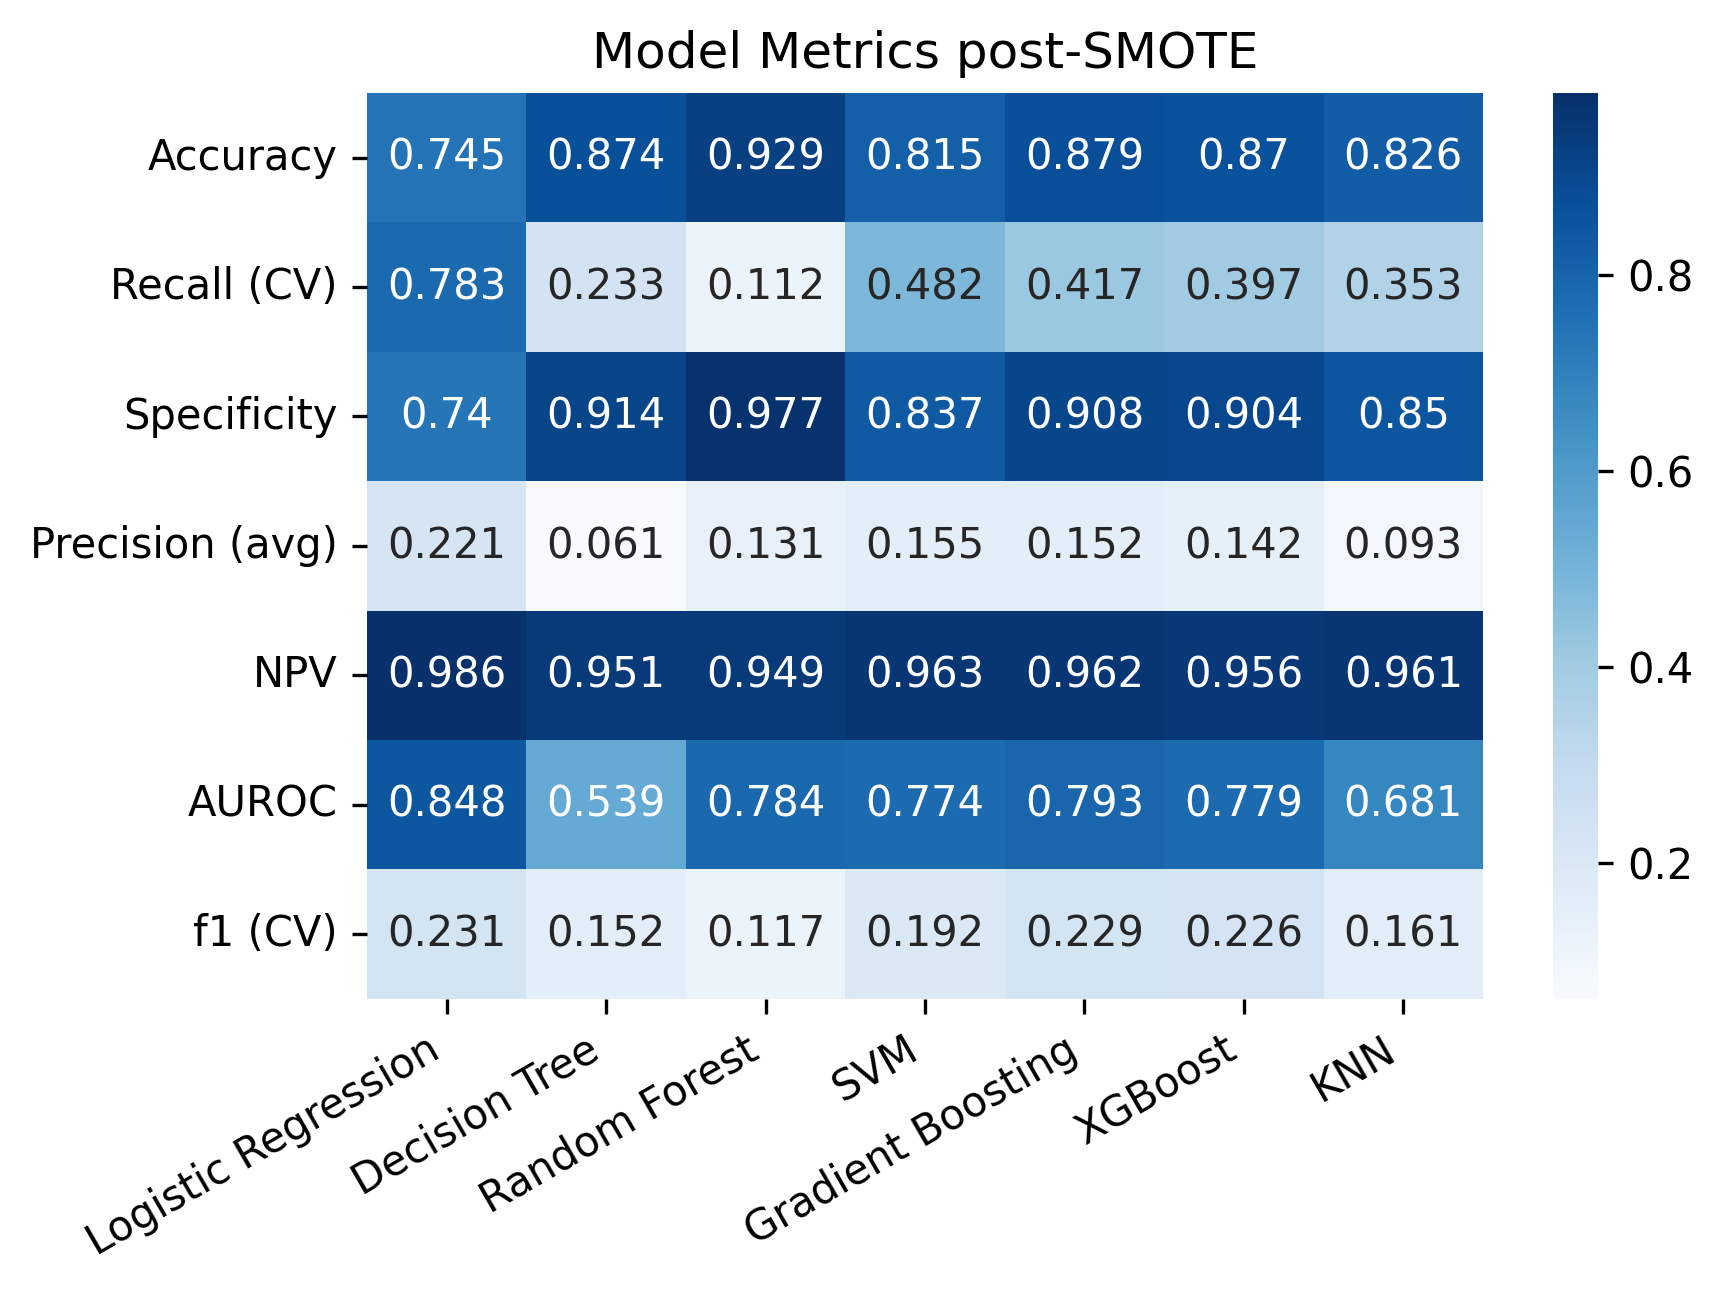
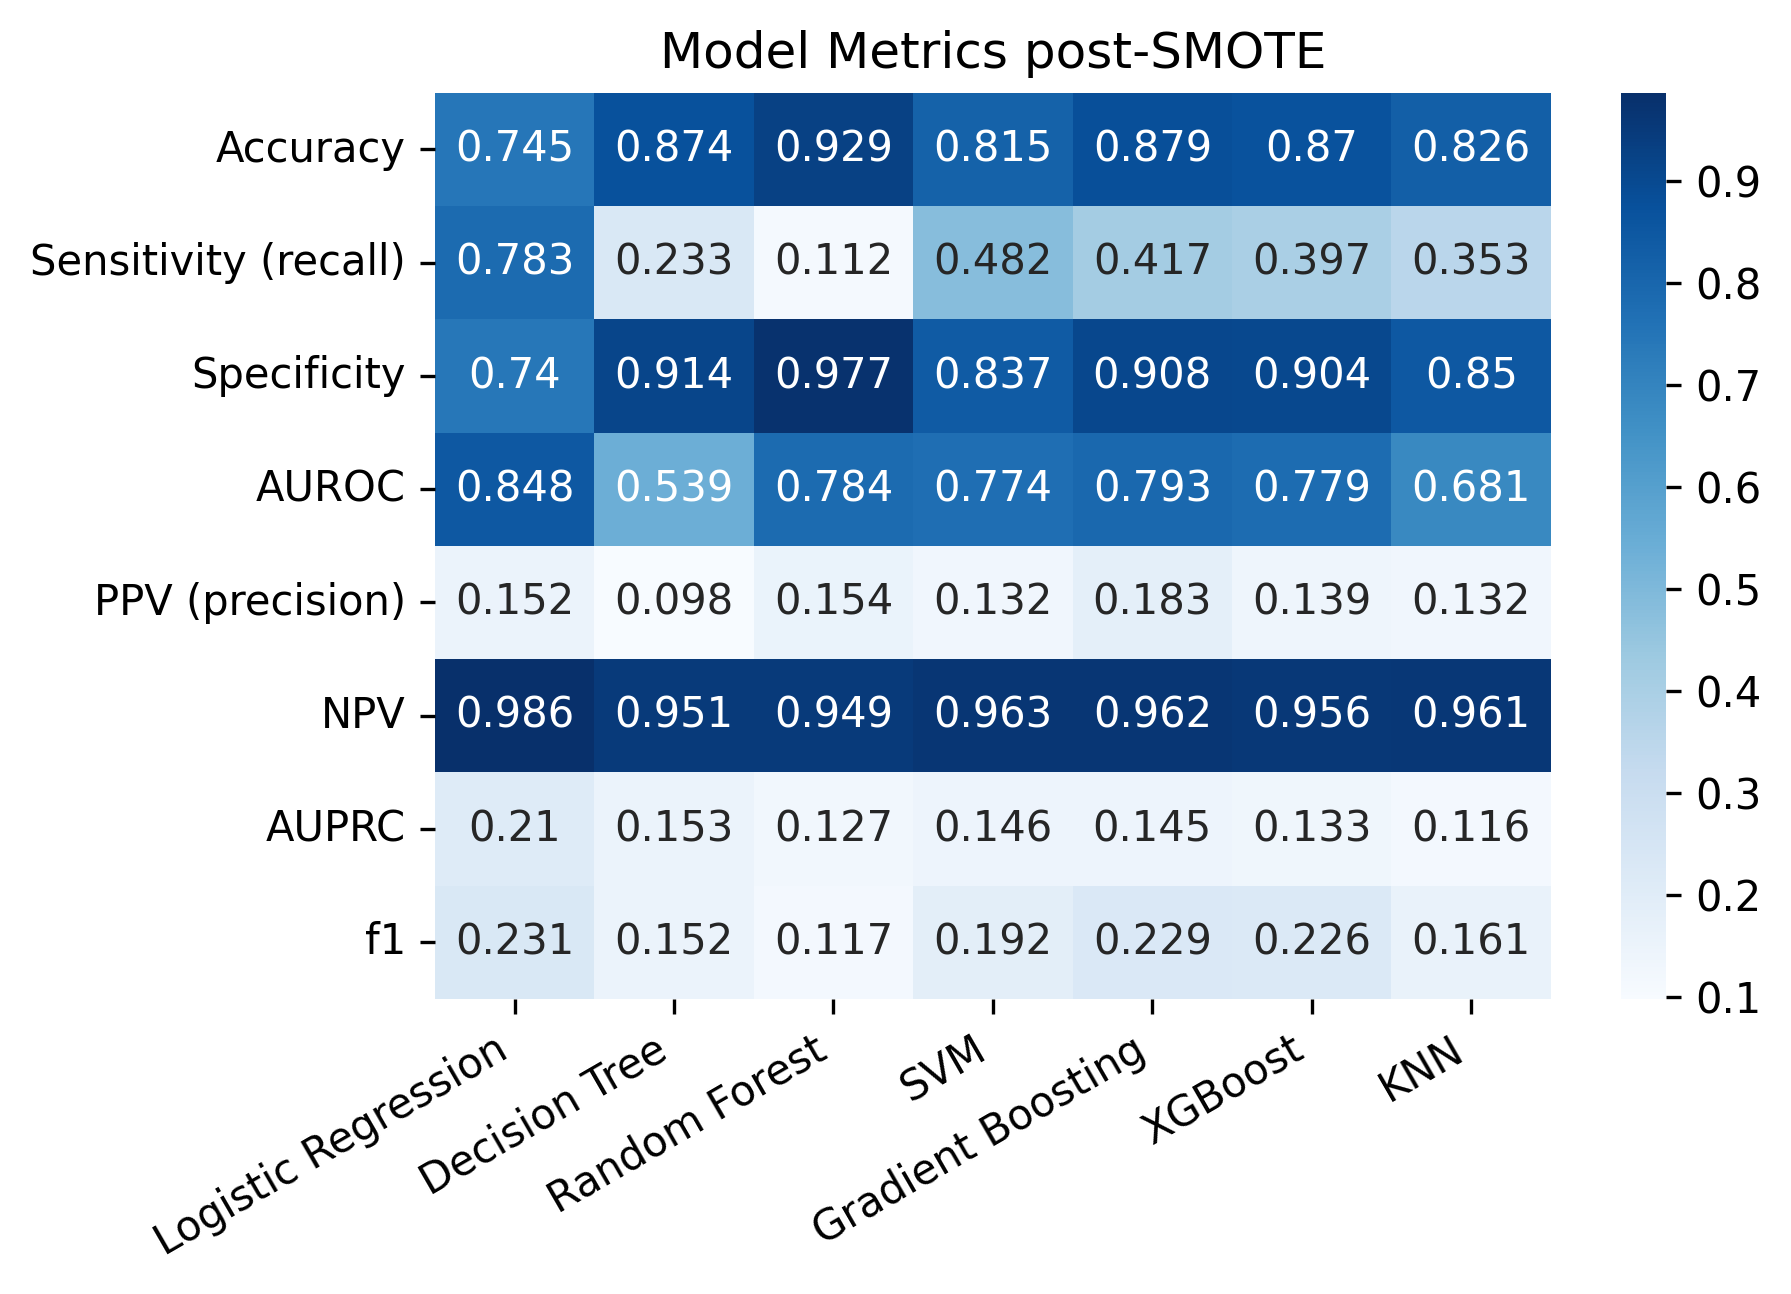
updating gridsearch functions

diff --git a/stroke_modeling.py b/stroke_modeling.py
@@ -557,8 +557,8 @@ lr_final_results = lr_final_results.apply(pd.to_numeric)
 sns.heatmap(data=lr_final_results.T, annot=True, cmap="Blues", fmt=".3")
 plt.yticks(rotation=0)  # Rotate y-tick labels to be horizontal
 plt.title('Comparison of Three Logistic Regression Models')
-save_filename = 'lr_all_metrics'
-save_image(output_dir, save_filename, bbox_inches='tight')
+#save_filename = 'lr_all_metrics'
+#save_image(output_dir, save_filename, bbox_inches='tight')
 plt.show()
 
 # Other output
@@ -607,9 +607,6 @@ for key in models_dict.keys():
     models_dict[key]['Pipeline'] = create_pipeline(key, models_dict[key]['Model'], use_SMOTE=True)
 
 
-# =========================================================================================================================================================
-# =========== TEST COMBINING CV SCORES INTO ONE LOOP ======================================================================================================
-# =========================================================================================================================================================
 # Perform cross validation (f1 and recall) for each model 
 for key in models_dict.keys():
     scores = cross_validate(models_dict[key]['Pipeline'], X, y, cv=10, scoring=['f1', 'recall'])
@@ -624,9 +621,6 @@ for key in models_dict.keys():
 print('\nMean recall scores:')
 for key in models_dict.keys():
     print(key, "{0:.4f}".format(models_dict[key]['CV Scores (recall)'].mean()))
-
-# =========================================================================================================================================================
-
 
 # To get full evaluation metrics on each model, need to fit first 
 for key in models_dict.keys():
@@ -645,7 +639,7 @@ for key in models_dict.keys():
     print()
 
 # Combine most important results into one dataframe
-final_metrics = ['Accuracy', 'Recall (CV)', 'Specificity', 'Precision (avg)', 'NPV', 'AUROC', 'f1 (CV)']
+final_metrics = ['Accuracy', 'Sensitivity (recall)', 'Specificity', 'AUROC', 'PPV (precision)', 'NPV', 'AUPRC', 'f1']
 final_results = pd.DataFrame(columns=final_metrics, index=model_names)
 
 for row in final_results.index:
@@ -655,12 +649,13 @@ for row in final_results.index:
     final_results_row = final_results.loc[row]
      
     final_results_row['Accuracy'] = model_data['Results']['Accuracy']
-    final_results_row['Recall (CV)'] = round(model_data['CV Scores (recall)'].mean(), 4)
+    final_results_row['Sensitivity (recall)'] = round(model_data['CV Scores (recall)'].mean(), 4)
     final_results_row['Specificity'] = model_data['Results']['Specificity']
-    final_results_row['Precision (avg)'] = model_data['Results']['Average precision']
-    final_results_row['NPV'] = model_data['Results']['NPV']
     final_results_row['AUROC'] = model_data['Results']['AUROC']
-    final_results_row['f1 (CV)'] = round(model_data['CV Scores (f1)'].mean(), 4)
+    final_results_row['PPV (precision)'] = model_data['Results']['PPV (precision)']
+    final_results_row['NPV'] = model_data['Results']['NPV']
+    final_results_row['AUPRC'] = model_data['Results']['Average AUPRC']
+    final_results_row['f1'] = round(model_data['CV Scores (f1)'].mean(), 4)
   
 # Display final results table
 # pd.set_option("display.max_columns", len(final_results.columns))
@@ -669,7 +664,11 @@ for row in final_results.index:
 
 # Create heatmap of final results to visualize best model, need to convert dataframe to numeric, for some reason it wasn't
 final_results = final_results.apply(pd.to_numeric)
-sns.heatmap(data=final_results, annot=True, cmap="Blues", fmt=".3")
+sns.heatmap(data=final_results.T, annot=True, cmap="Blues", fmt=".3")
+plt.xticks(rotation=30, horizontalalignment='right')  # Rotate y-tick labels to be horizontal# Rotate x-axis tick labels so they don't overlap
+plt.title('Model Metrics post-SMOTE')
+save_filename = 'metrics_multiple_models_smote'
+save_image(output_dir, save_filename, bbox_inches='tight')
 plt.show()
 
 # Logistic Regression Ranks close to the top in all metrics, let's look at the rest and reset the heatmap colors
@@ -683,46 +682,100 @@ plt.show()
 # f1 is an important metric in imbalanced datasets such as this one
 new_results_2 = new_results.copy().drop(['Random Forest', 'Decision Tree', 'KNN'])
 sns.heatmap(data=new_results_2, annot=True, cmap="Blues", fmt=".3")
+plt.yticks(rotation=0)  # Rotate y-tick labels to be horizontal
 plt.show()
 
 # SVM with better recall but worse f1 than both boosting algorithms, will keep SVM and XGBoost
 next_step_results = final_results.copy().drop(['Random Forest', 'Decision Tree', 'KNN', 'Gradient Boosting'])
 sns.heatmap(data=next_step_results, annot=True, cmap="Blues", fmt=".3")
+plt.yticks(rotation=0)  # Rotate y-tick labels to be horizontal
 plt.show()
 
 # ====================================================================================================================
 # Hyperparameter tuning for Logistic Regression, SVM, XGBoost
 # ====================================================================================================================
+# =============================
+# GridSearchCV attributes
+# =============================
+# The optimized parameters found by GridSearchCV: grid_search_obj.best_params_
+# The pipeline or model with optimized parameters: grid_search_obj.best_estimator_
+# The entirety of the gridsearch results: grid_search_test.cv_results_
+# The best score of whatever metric you chose to select the best parameters (what you set 'refit' to): grid_search_test.best_score_
+# The model parameter names to be used when making the GridSearchCV object: model_obj.get_params().keys()
+
+# =============================
+# Function organizing GridSearchCV results
+# =============================
+# Function assumes scoring=['f1', 'recall'] and that refit='f1'
+# The recall and precision that are returned are the mean cross-validated versions
+def gridsearch_results(model_name, estimator, param_grid, scoring, refit, n_jobs=10, cv=10, verbose=True):
+    # Create GridSearch object and fit data
+    grid_search = GridSearchCV(estimator=estimator, param_grid=param_grid, scoring=scoring, refit=refit, n_jobs=n_jobs, cv=cv, verbose=verbose)
+    grid_search.fit(X_train, y_train)
+    
+    # Access scores of best estimator
+    results = grid_search.cv_results_
+    
+    # Gets the index of the best f1 score (to be used later as well)
+    best_estimator_f1_index = np.nonzero(results['rank_test_f1'] == 1)[0][0]
+    
+    # Uses the index to select the best f1 score, which was used to select the best estimator
+    best_estimator_f1 = results['mean_test_f1'][best_estimator_f1_index]
+    
+    # To get the recall score of the best estimator, use the same index as the best f1, since that corresponds to the same estimator
+    best_estimator_recall = results['mean_test_recall'][best_estimator_f1_index]
+    
+    # Using optimal model from GridSearch results, fit and run model again so that I can run my results functions
+    pipeline_gs = grid_search.best_estimator_
+    pipeline_gs.fit(X_train, y_train)
+    y_pred_gs = pipeline_gs.predict(X_valid)
+    
+    # Get results using my function
+    results_gs, conmat_gs = evaluate_model(X_train, X_valid, y_train, y_valid, y_pred_gs, pipeline_gs, model_name, create_graphs=False)
+    
+    # Combine most important results into one dataframe
+    return_metrics = ['Accuracy', 'Sensivity (CV recall)', 'Specificity', 'AUROC', 'PPV (precision)', 'NPV', 'AUPRC', 'f1 (CV)']
+    return_results = pd.DataFrame(columns=return_metrics, index=[model_name])
+    return_results['Accuracy'] = results_gs['Accuracy']    
+    return_results['Sensivity (CV recall)'] = best_estimator_recall
+    return_results['Specificity'] = results_gs['Specificity']
+    return_results['AUROC'] = results_gs['AUROC']
+    return_results['PPV (precision)'] = results_gs['PPV (precision)']
+    return_results['NPV'] = results_gs['NPV']
+    return_results['AUPRC'] = results_gs['AUPRC']
+    return_results['f1 (CV)'] = best_estimator_f1
+    
+    return grid_search, return_results
+
 # ==========================================================
 # Hyperparameter tuning XGBoost
 # ==========================================================
 # https://www.mikulskibartosz.name/xgboost-hyperparameter-tuning-in-python-using-grid-search/
-estimator = XGBClassifier(objective='binary:logistic', nthread=4, seed=42, use_label_encoder=False, eval_metric='logloss')
-estimator_pipe = create_pipeline('XGBoost', estimator, use_SMOTE=True)
-parameters = {'XGBoost__max_depth': range (2, 10, 1), 'XGBoost__n_estimators': range(60, 220, 40), 'XGBoost__learning_rate': [0.1, 0.01, 0.05]}
-grid_search = GridSearchCV(estimator=estimator_pipe, param_grid=parameters, scoring = 'f1', n_jobs = 10, cv = 10, verbose=True)
+# https://towardsdatascience.com/binary-classification-xgboost-hyperparameter-tuning-scenarios-by-non-exhaustive-grid-search-and-c261f4ce098d
 
-#estimator_pipe.get_params().keys()
+# =============================
+# Weighted XGBoost (without SMOTE)
+# =============================
+xgb_model = XGBClassifier(objective='binary:logistic', nthread=4, seed=15, use_label_encoder=False, eval_metric='logloss')
+xgb_pipeline = create_pipeline('XGBoost', xgb_model, use_SMOTE=False)
 
-grid_search.fit(X_train, y_train)
+xgb_parameters = {'XGBoost__max_depth': range (8, 10, 1), 'XGBoost__n_estimators': range(60, 140, 40), 'XGBoost__learning_rate': [0.1, 0.01]}
+grid_search_obj_xgb, return_results_xgb = gridsearch_results(model_name='Weighted XGBoost', estimator=xgb_pipeline, param_grid=xgb_parameters, scoring=['f1', 'recall'], refit='f1', n_jobs=10, cv=3, verbose=True)
 
-print(grid_search.best_params_)
-# {'XGBoost__learning_rate': 0.01,
-#  'XGBoost__max_depth': 9,
-#  'XGBoost__n_estimators': 100}
-new_XGB_pipeline = grid_search.best_estimator_
+return_results_xgb.T
 
-new_XGB_pipeline.fit(X_train, y_train)
-y_pred_new_XGB = new_XGB_pipeline.predict(X_valid)
-results, conmat = evaluate_model(X_train, X_valid, y_train, y_valid, y_pred_new_XGB, new_XGB_pipeline, 'XGB (new)', create_graphs=False)
+# =============================
+# With SMOTE
+# =============================
+xgb_model_smote = XGBClassifier(objective='binary:logistic', nthread=4, seed=15, use_label_encoder=False, eval_metric='logloss')
+xgb_pipeline_smote = create_pipeline('XGBoost', xgb_model_smote, use_SMOTE=True)
 
-new_XGB_cv_f1 = cross_val_score(new_XGB_pipeline, X, y, cv=10, scoring='f1')
-new_XGB_cv_recall = cross_val_score(new_XGB_pipeline, X, y, cv=10, scoring='recall')
+xgb_smote_parameters = {'XGBoost__max_depth': range (8, 10, 1), 'XGBoost__n_estimators': range(60, 140, 40), 'XGBoost__learning_rate': [0.1, 0.01]}
+grid_search_obj_xgb_s, return_results_xgb_s = gridsearch_results(model_name='XGBoost (SMOTE)', estimator=xgb_pipeline_smote, param_grid=xgb_smote_parameters, scoring=['f1', 'recall'], refit='f1', n_jobs=10, cv=3, verbose=True)
 
-print("Mean f1 CV score:" + str(np.round(new_XGB_cv_f1.mean(), 4)))
-print("Mean recall CV score:" + str(np.round(new_XGB_cv_recall.mean(), 4)))
+return_results_xgb_s.T
 
-# Most metrics about the same other than CV recall, which had a large improvement from ~0.39 to ~0.50
+
 
 
 # ==========================================================
